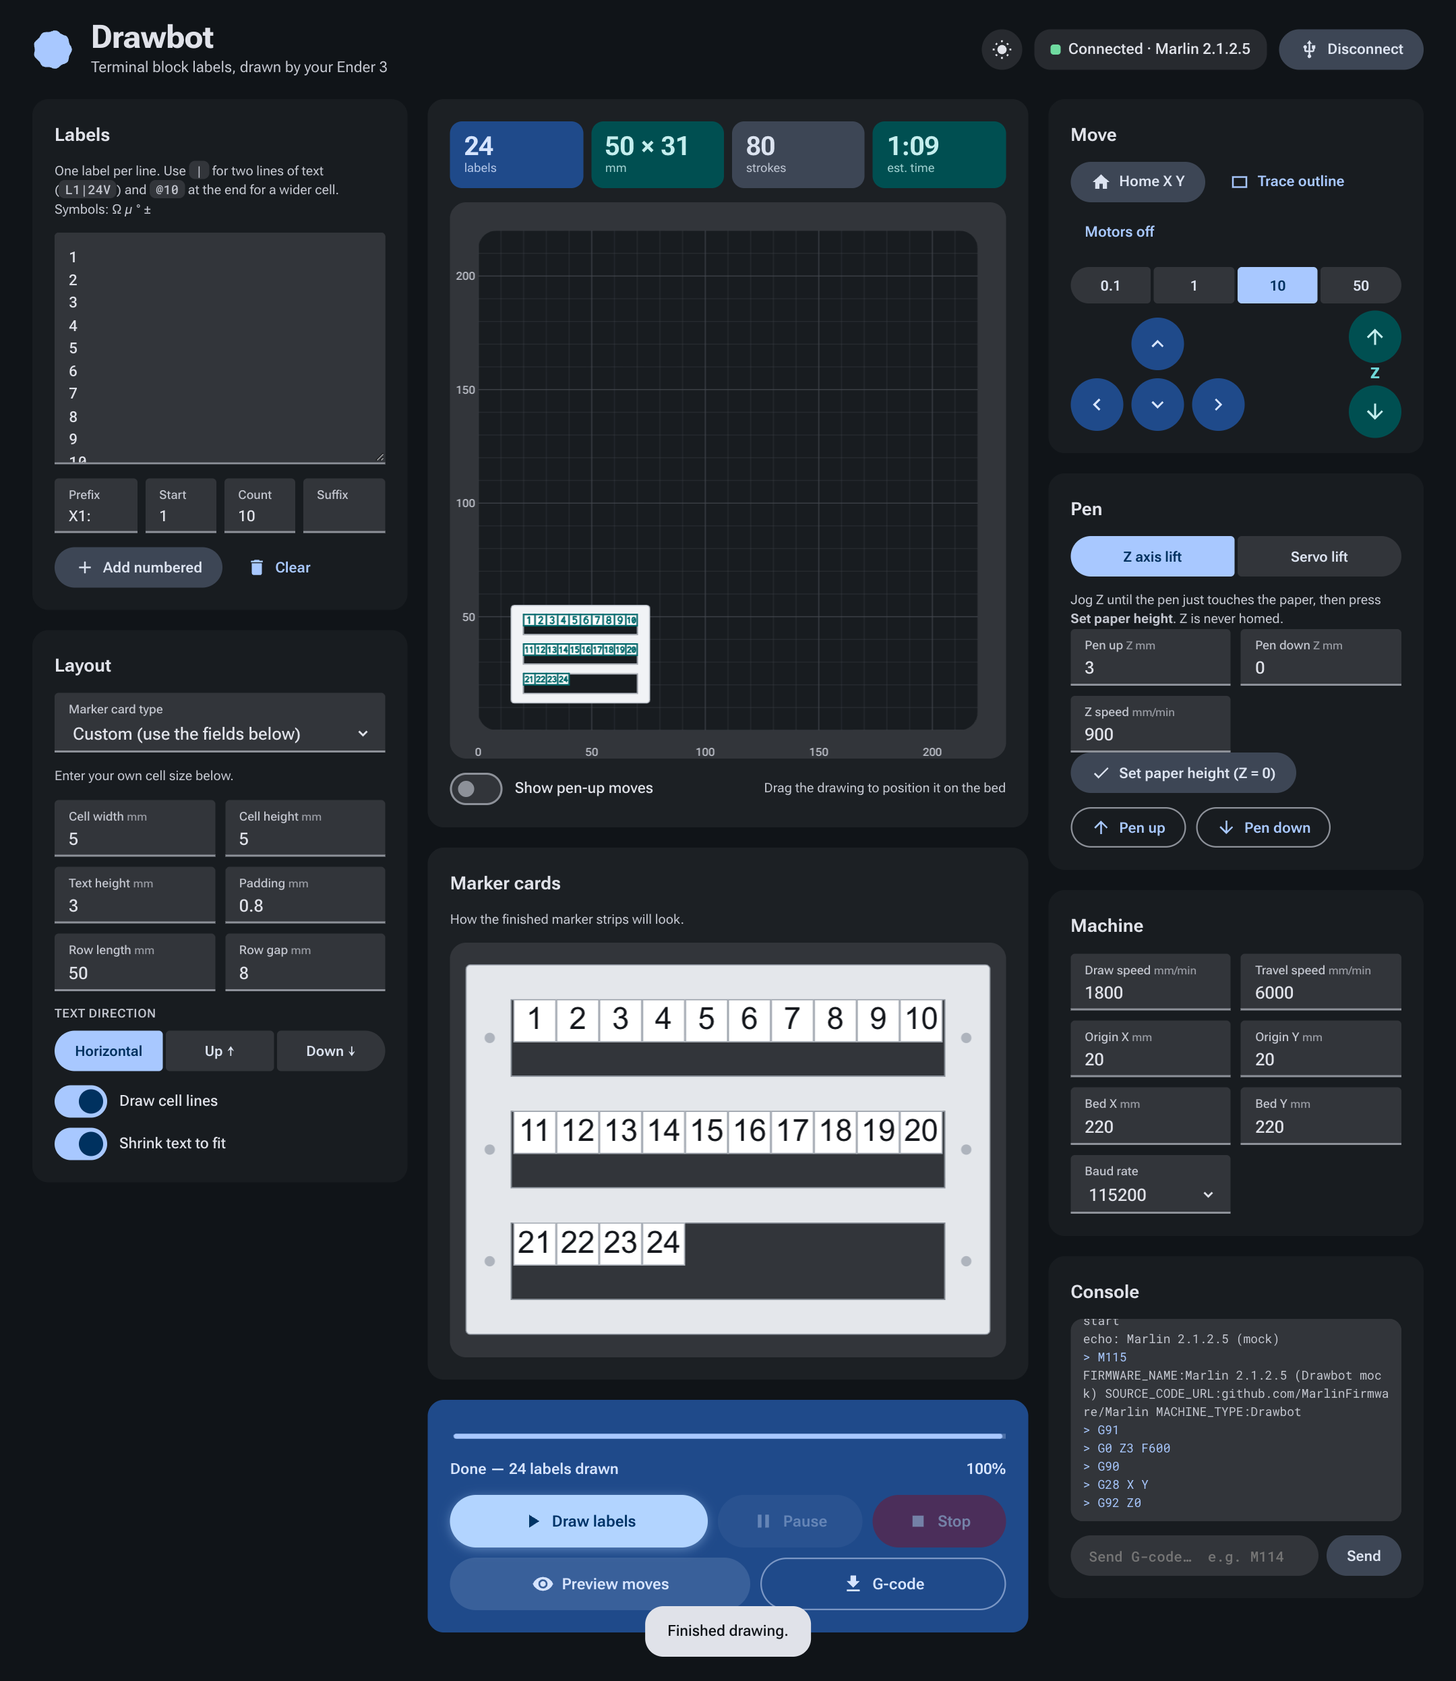
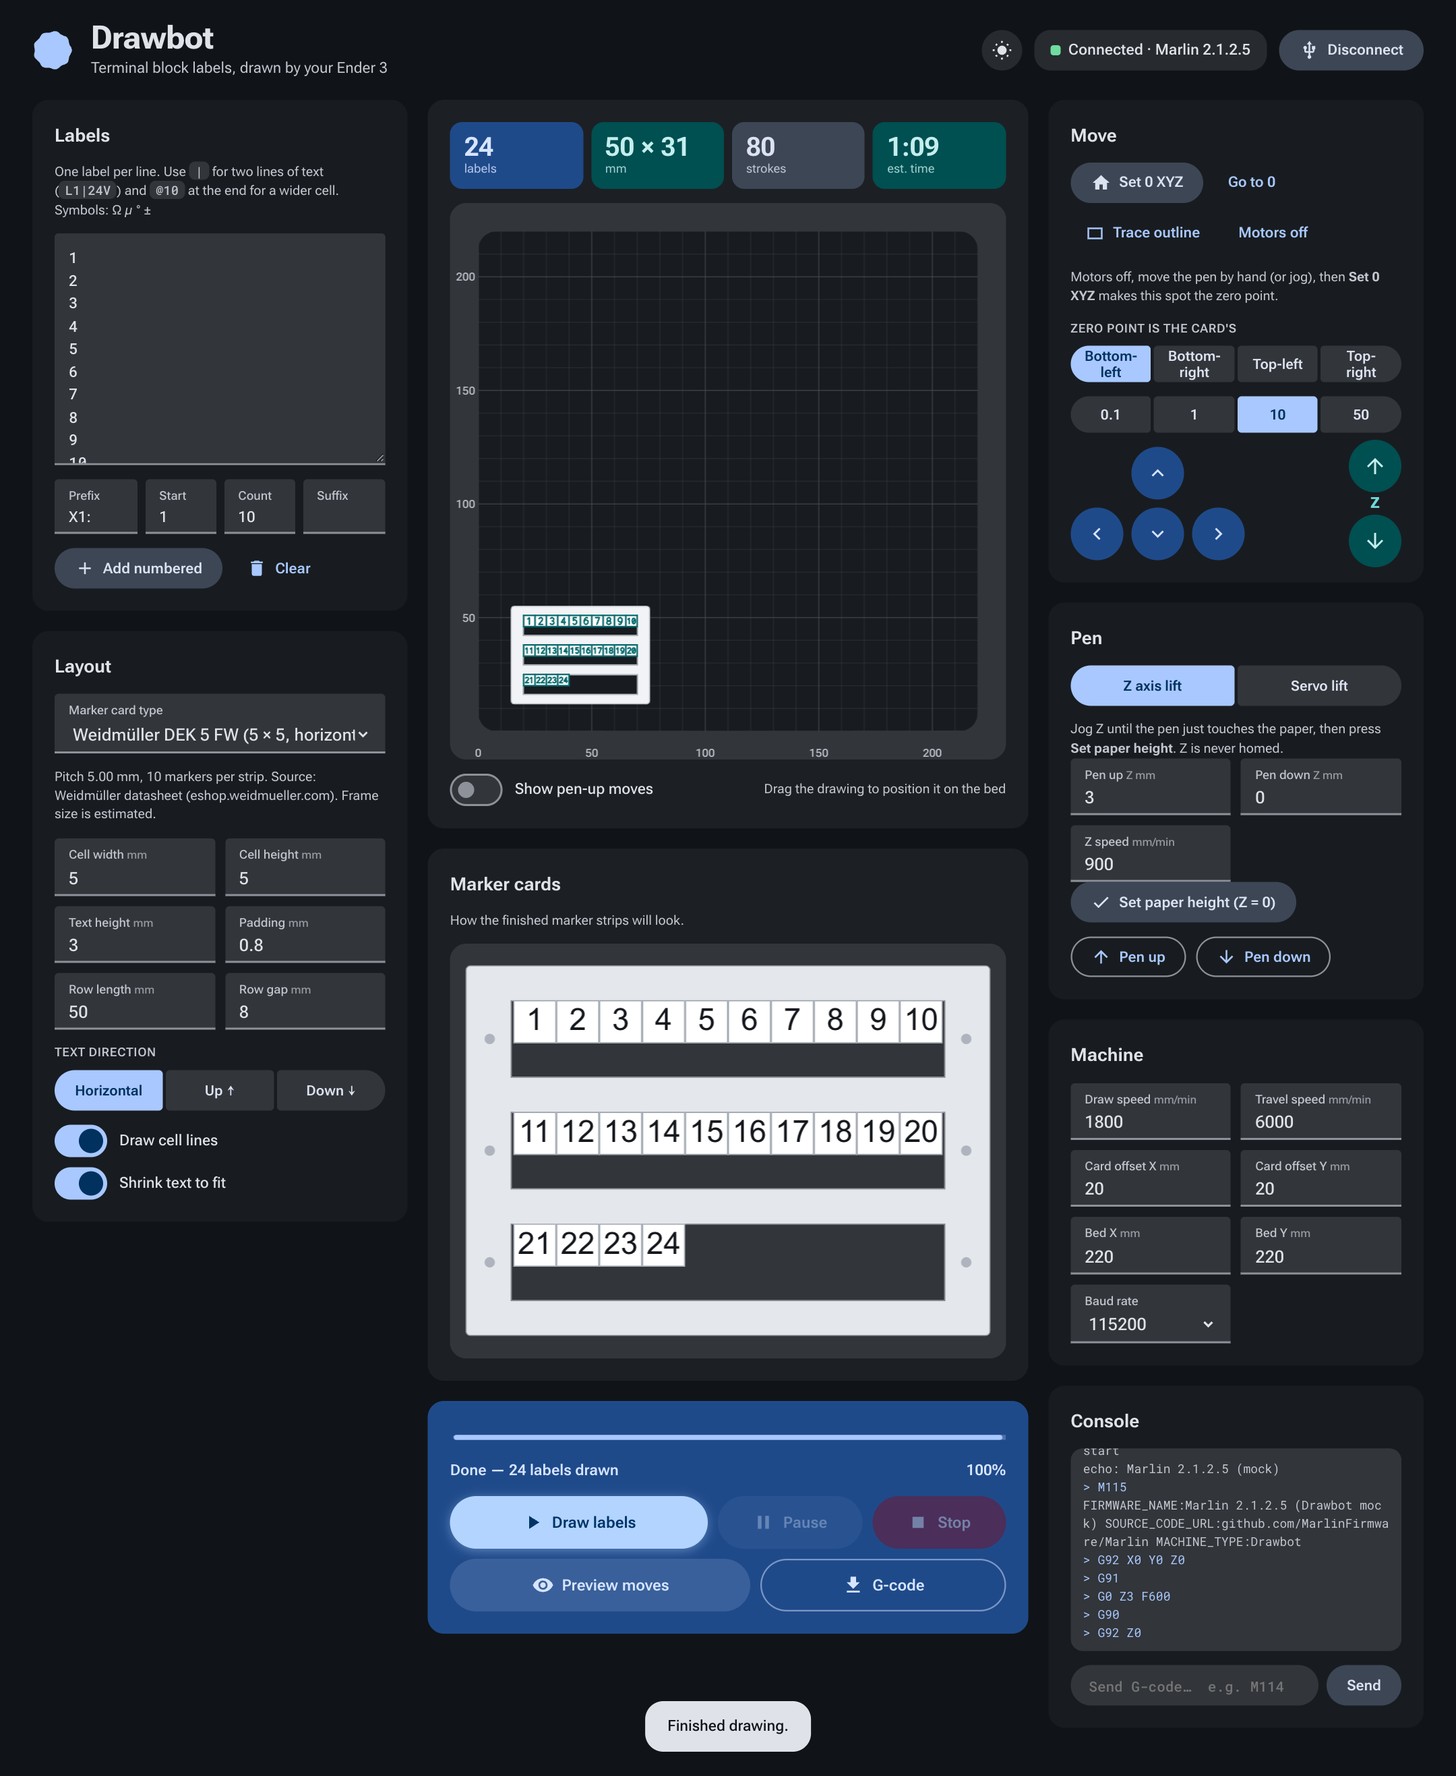
Replace Home X Y with Set 0 XYZ (G92), add Go to 0 and zero-point corner picker; park at zero

diff --git a/tests/e2e.js b/tests/e2e.js
@@ -23,7 +23,7 @@ const sleep = ms => new Promise(r => setTimeout(r, ms));
 const DATASETS = [
   { id: 'numbered', title: 'Numbered marker strips, 5 mm cells',
     labels: Array.from({ length: 24 }, (_, i) => String(i + 1)).join('\n'),
-    num: { cellW: 5, cellH: 5, textH: 3, rowLen: 50, rowGap: 8 }, seg: { rotSeg: '0', modeSeg: 'z' } },
+    num: { textH: 3, rowGap: 8 }, seg: { rotSeg: '0', modeSeg: 'z' } },
   { id: 'symbols', title: 'Mixed symbols and two-line labels',
     labels: 'L1|24V\nL2|24V\n0V\nPE@8\n10kΩ\n4.7µF\n±5%\n85°C\nA-B/C\n(IN)+\n#7 &8', num: { cellW: 9, cellH: 14, textH: 3.5 }, seg: { rotSeg: '90', modeSeg: 'z' } },
   { id: 'horizontal', title: 'Horizontal text in wide cells',
@@ -102,7 +102,7 @@ async function runDataset(browser, ds, i) {
   await connect(page);
   check(G, 'connected and detected Marlin', /Marlin/.test(await text(page, '#statusText')), `("${await text(page, '#statusText')}")`);
   if (i === 0) await shot(page, '02-connected');
-  await page.click('#btnHome');
+  await page.click('#btnZero');
   if (ds.seg.modeSeg === 'z') await page.click('#btnSetZ');
   await page.waitForFunction(() => window.DBApp.printer.inflight.length === 0 && window.DBApp.printer.queue.length === 0);
   const base = await page.evaluate(() => ({ cmds: window.__mock.commands, downs: window.__mock.penDowns }));
@@ -124,7 +124,7 @@ async function runDataset(browser, ds, i) {
   check(G, 'one pen-down per stroke', m.downs - base.downs === expect.strokes, `(${m.downs - base.downs}/${expect.strokes})`);
   const err = Math.max(Math.abs(bb.minx - (expect.minx + s.ox)), Math.abs(bb.maxx - (expect.maxx + s.ox)), Math.abs(bb.miny - (expect.miny + s.oy)), Math.abs(bb.maxy - (expect.maxy + s.oy)));
   check(G, 'drawn bounding box lands at the origin offset', err < 0.05, `(X ${bb.minx.toFixed(1)}–${bb.maxx.toFixed(1)}, Y ${bb.miny.toFixed(1)}–${bb.maxy.toFixed(1)} mm; max error ${err.toFixed(3)} mm)`);
-  check(G, 'pen lifted and parked at the end', !m.penDown && m.pos.x === 0 && m.pos.y === s.bedH, `(pos ${m.pos.x},${m.pos.y}, pen ${m.penDown ? 'DOWN' : 'up'})`);
+  check(G, 'pen lifted and parked at the zero point', !m.penDown && m.pos.x === 0 && m.pos.y === 0, `(pos ${m.pos.x},${m.pos.y}, pen ${m.penDown ? 'DOWN' : 'up'})`);
   check(G, 'no JS errors in the page', page.errors.length === 0, page.errors.join('; '));
   await renderExecuted(page, path.join(SHOTS, `run-${ds.id}.png`), ds.title);
   if (ds.id === 'numbered') await shot(page, '04-finished');
@@ -150,7 +150,7 @@ async function runDataset(browser, ds, i) {
   console.log('\n== Pause and resume');
   let G = 'Pause / resume';
   page = await setup(browser, { query: '?mock&delay=8', ds: DATASETS[0] });
-  await connect(page); await page.click('#btnHome'); await page.click('#btnSetZ');
+  await connect(page); await page.click('#btnZero'); await page.click('#btnSetZ');
   await page.waitForFunction(() => window.DBApp.printer.inflight.length === 0);
   const exp = await page.evaluate(() => window.DBApp.state.design.strokes.reduce((a, s) => a + s.slice(1).reduce((q, p, k) => q + Math.hypot(p[0] - s[k][0], p[1] - s[k][1]), 0), 0));
   await page.click('#btnStart'); await waitPct(page, 35); await page.click('#btnPause');
@@ -169,7 +169,7 @@ async function runDataset(browser, ds, i) {
   console.log('\n== Stop');
   G = 'Stop';
   page = await setup(browser, { query: '?mock&delay=8', ds: DATASETS[0] });
-  await connect(page); await page.click('#btnHome'); await page.click('#btnSetZ');
+  await connect(page); await page.click('#btnZero'); await page.click('#btnSetZ');
   await page.waitForFunction(() => window.DBApp.printer.inflight.length === 0);
   await page.click('#btnStart'); await waitPct(page, 25); await page.click('#btnStop');
   await page.waitForFunction(() => document.getElementById('progText').textContent === 'Ready', { timeout: 10000 });
@@ -187,7 +187,7 @@ async function runDataset(browser, ds, i) {
   console.log('\n== Manual controls');
   G = 'Manual controls';
   page = await setup(browser);
-  await connect(page); await page.click('#btnHome');
+  await connect(page); await page.click('#btnZero');
   await page.click('[data-jog="X"][data-dir="1"]'); await page.click('[data-jog="Y"][data-dir="1"]'); await page.click('[data-jog="Y"][data-dir="1"]');
   await page.click('#stepSeg button[data-v="1"]'); await page.click('[data-jog="X"][data-dir="-1"]');
   await page.waitForFunction(() => window.DBApp.printer.inflight.length === 0 && !window.DBApp.printer.queue.length);
@@ -217,7 +217,7 @@ async function runDataset(browser, ds, i) {
   const before = await page.evaluate(() => window.__mock.commands);
   await page.click('#btnStart'); await page.waitForSelector('dialog[open]');
   const dtxt = await text(page, '#dlgBody');
-  check(G, 'warns about off-bed drawing, unhomed axes and unset Z', /past the bed/.test(dtxt) && /homed/.test(dtxt) && /Z = 0/.test(dtxt));
+  check(G, 'warns about off-bed drawing and unset zero', /past the bed/.test(dtxt) && /Zero/.test(dtxt) && /Z = 0/.test(dtxt));
   await shot(page, '07-safety-dialog');
   await page.click('#dlgNo'); await sleep(300);
   check(G, 'Cancel sends nothing', (await page.evaluate(() => window.__mock.commands)) === before);
@@ -226,6 +226,18 @@ async function runDataset(browser, ds, i) {
 
   // 6. Dark theme + mobile
   page = await setup(browser, { dark: false, ds: DATASETS[1] }); await shot(page, '09-light-theme'); await page.close();
+  // Zero point + anchor corner
+  page = await setup(browser, { ds: { labels: '1\n2\n3', num: { cellW: 5, cellH: 5, ox: 10, oy: 10 }, seg: { rotSeg: '0' } } });
+  await connect(page);
+  await page.click('#btnZero'); await page.waitForFunction(() => window.DBApp.printer.inflight.length === 0 && !window.DBApp.printer.queue.length);
+  check('Zero point', 'Set 0 XYZ sends G92 and is not G28', await page.evaluate(() => window.__mock.log.some(l => l === 'G92 X0 Y0 Z0') && !window.__mock.log.some(l => l.startsWith('G28'))));
+  const gcBL = await page.evaluate(() => window.DBApp.state.gc.lines.filter(l => /^G1 X/.test(l)).slice(0, 1)[0]);
+  await page.click('#anchorSeg button[data-v="tr"]');
+  const gcTR = await page.evaluate(() => window.DBApp.state.gc.lines.filter(l => /^G1 X/.test(l)).slice(0, 1)[0]);
+  const negs = await page.evaluate(() => window.DBApp.state.gc.lines.some(l => /X-\d/.test(l) || /Y-\d/.test(l)));
+  check('Zero point', 'top-right anchor shifts the drawing so that corner sits at the offset', gcBL !== gcTR && negs, `${gcBL} -> ${gcTR}`);
+  await page.close();
+
   // Card type presets
   page = await setup(browser);
   await page.select('#cardType', 'zb5'); await sleep(200);

diff --git a/web/app.js b/web/app.js
@@ -10,7 +10,7 @@
   const NUM_IDS = ['cellW', 'cellH', 'textH', 'pad', 'rowLen', 'rowGap', 'zUp', 'zDown', 'zFeed', 'svUp', 'svDown', 'svDelay',
                    'drawFeed', 'travelFeed', 'ox', 'oy', 'bedW', 'bedH'];
   const CHECK_IDS = ['borders', 'shrink', 'showTravel'];
-  const SEGS = { rotSeg: '90', modeSeg: 'z', stepSeg: '10' };
+  const SEGS = { rotSeg: '90', modeSeg: 'z', stepSeg: '10', anchorSeg: 'bl' };
   const state = { design: null, gc: null, job: null, homed: false, zSet: false, doneStrokes: 0 };
 
   const num = (id, d) => { const v = parseFloat($(id).value); return Number.isFinite(v) ? v : d; };
@@ -23,7 +23,10 @@
       zUp: num('zUp', 3), zDown: num('zDown', 0), zFeed: Math.max(60, num('zFeed', 900)),
       svUp: num('svUp', 90), svDown: num('svDown', 40), svDelay: num('svDelay', 200),
       drawFeed: Math.max(60, num('drawFeed', 1800)), travelFeed: Math.max(60, num('travelFeed', 6000)),
-      ox: num('ox', 20), oy: num('oy', 20), bedW, bedH, parkX: 0, parkY: bedH,
+      // card offset from the zero point; the chosen card corner sits at (ox, oy) from zero
+      ox: num('ox', 20) - (/r/.test(segVal('anchorSeg')) && state.design ? state.design.width : 0),
+      oy: num('oy', 20) - (/t/.test(segVal('anchorSeg')) && state.design ? state.design.height : 0),
+      bedW, bedH, parkX: 0, parkY: 0,
     };
   }
   function layoutOpts() {
@@ -60,7 +63,7 @@
     const b = e.target.closest('button'); if (!b) return;
     setSeg(id, b.dataset.v);
     if (id === 'modeSeg') syncMode();
-    if (id === 'rotSeg') relayout(); else regen();
+    if (id === 'rotSeg') relayout(); else regen();   // anchorSeg / stepSeg / modeSeg
     save();
   }));
   function syncMode() {
@@ -415,7 +418,8 @@
   const penUpCmds = () => GC.penUp(settings());
   const liftCmds = () => segVal('modeSeg') === 'servo' ? penUpCmds() : ['G91', 'G0 Z3 F600', 'G90'];
 
-  $('btnHome').onclick = () => { if (!need()) return; send([...liftCmds(), 'G28 X Y']); state.homed = true; };
+  $('btnZero').onclick = () => { if (!need()) return; send(['G92 X0 Y0 Z0', ...liftCmds()]); state.homed = true; state.zSet = true; toast('This position is now 0 X Y Z.'); };
+  $('btnGoZero').onclick = () => { if (!need()) return; send([...liftCmds(), 'G90', `G0 X0 Y0 F${settings().travelFeed}`]); };
   $('btnOff').onclick = () => { if (!need()) return; send(['M84']); state.homed = false; };
   $('btnSetZ').onclick = () => { if (!need()) return; send(['G92 Z0']); state.zSet = true; toast('Z = 0 is now the paper surface.'); };
   $('btnPenUp').onclick = () => { if (!need()) return; send(['G90', ...penUpCmds()]); };
@@ -457,7 +461,7 @@
     if (!state.design.strokes.length) { toast('Nothing to draw — add some labels.'); return; }
     const warn = [];
     if (state.outOfBed) warn.push('• The drawing extends past the bed.');
-    if (!state.homed) warn.push('• X/Y have not been homed this session.');
+    if (!state.homed) warn.push('• Zero (Set 0 XYZ) has not been set this session.');
     if (settings().penMode === 'z' && !state.zSet) warn.push('• Paper height (Z = 0) has not been set.');
     if (warn.length && !(await confirmDlg('Check before drawing', warn.join('\n') + '\n\nThe pen may crash or draw in the wrong place.', 'Draw anyway'))) return;
     const gc = state.gc;

diff --git a/web/index.html b/web/index.html
@@ -134,9 +134,15 @@
     <article class="card">
       <h2>Move</h2>
       <div class="row">
-        <button class="btn tonal" id="btnHome"><svg><use href="#i-home"/></svg><span>Home X Y</span></button>
+        <button class="btn tonal" id="btnZero"><svg><use href="#i-home"/></svg><span>Set 0 XYZ</span></button>
+        <button class="btn text" id="btnGoZero"><span>Go to 0</span></button>
         <button class="btn text" id="btnBounds"><svg><use href="#i-box"/></svg><span>Trace outline</span></button>
         <button class="btn text" id="btnOff"><span>Motors off</span></button>
+      </div>
+      <p class="hint">Motors off, move the pen by hand (or jog), then <b>Set 0 XYZ</b> makes this spot the zero point.</p>
+      <div class="label-s">Zero point is the card's</div>
+      <div class="seg small" id="anchorSeg" role="radiogroup">
+        <button type="button" data-v="bl" class="on">Bottom-left</button><button type="button" data-v="br">Bottom-right</button><button type="button" data-v="tl">Top-left</button><button type="button" data-v="tr">Top-right</button>
       </div>
       <div class="seg small" id="stepSeg">
         <button type="button" data-v="0.1">0.1</button><button type="button" data-v="1">1</button><button type="button" data-v="10" class="on">10</button><button type="button" data-v="50">50</button>
@@ -188,8 +194,8 @@
       <div class="fields">
         <label class="field"><span>Draw speed <small>mm/min</small></span><input id="drawFeed" type="number" step="100" value="1800"></label>
         <label class="field"><span>Travel speed <small>mm/min</small></span><input id="travelFeed" type="number" step="500" value="6000"></label>
-        <label class="field"><span>Origin X <small>mm</small></span><input id="ox" type="number" step="1" value="20"></label>
-        <label class="field"><span>Origin Y <small>mm</small></span><input id="oy" type="number" step="1" value="20"></label>
+        <label class="field"><span>Card offset X <small>mm</small></span><input id="ox" type="number" step="1" value="20"></label>
+        <label class="field"><span>Card offset Y <small>mm</small></span><input id="oy" type="number" step="1" value="20"></label>
         <label class="field"><span>Bed X <small>mm</small></span><input id="bedW" type="number" value="220"></label>
         <label class="field"><span>Bed Y <small>mm</small></span><input id="bedH" type="number" value="220"></label>
         <label class="field"><span>Baud rate</span>

diff --git a/web/mock-serial.js b/web/mock-serial.js
@@ -32,7 +32,7 @@
     } else if (cmd === 'G28') { if (w.length === 1 || w.includes('X')) m.pos.x = 0; if (w.length === 1 || w.includes('Y')) m.pos.y = 0; }
     else if (cmd === 'G90') m.rel = false;
     else if (cmd === 'G91') m.rel = true;
-    else if (cmd === 'G92') { const z = val('Z'); if (z !== undefined) { m.pos.z = z; setPen(z <= 0.01); } }
+    else if (cmd === 'G92') { const x = val('X'), y = val('Y'), z = val('Z'); if (x !== undefined) m.pos.x = x; if (y !== undefined) m.pos.y = y; if (z !== undefined) { m.pos.z = z; setPen(z <= 0.01); } }
     else if (cmd === 'M280') { m.servoAngle = val('S'); setPen(m.servoAngle <= 60); }
     else if (cmd === 'M410') { queue.length = 0; m.occupancy = 0; m.stopped++; }
     else if (cmd === 'M115') { reply('FIRMWARE_NAME:Marlin 2.1.2.5 (Drawbot mock) SOURCE_CODE_URL:github.com/MarlinFirmware/Marlin MACHINE_TYPE:Drawbot'); }

diff --git a/docs/TEST_RESULTS.md b/docs/TEST_RESULTS.md
@@ -2,7 +2,7 @@
 
 Generated by `tests/e2e.js` (headless Chrome → real UI → simulated Marlin, `?mock` demo mode).
 
-**72/72 checks passed.**
+**74/74 checks passed.**
 
 ## UI
 
@@ -24,7 +24,7 @@ Generated by `tests/e2e.js` (headless Chrome → real UI → simulated Marlin, `
 | ✅ | ink length matches design | (583.6 mm drawn vs 583.5 mm designed) |
 | ✅ | one pen-down per stroke | (80/80) |
 | ✅ | drawn bounding box lands at the origin offset | (X 20.0–70.0, Y 20.0–51.0 mm; max error 0.000 mm) |
-| ✅ | pen lifted and parked at the end | (pos 0,220, pen up) |
+| ✅ | pen lifted and parked at the zero point | (pos 0,0, pen up) |
 | ✅ | no JS errors in the page |  |
 
 ## Mixed symbols and two-line labels
@@ -36,12 +36,12 @@ Generated by `tests/e2e.js` (headless Chrome → real UI → simulated Marlin, `
 | ✅ | layout produced every label | (11/11 labels, 86 strokes, 709 mm of ink) |
 | ✅ | design fits on the bed | (45×58 mm at 20,20) |
 | ✅ | connected and detected Marlin | ("Connected · Marlin 2.1.2.5") |
-| ✅ | every G-code line was acknowledged | (784/784 commands in 0.1s) |
+| ✅ | every G-code line was acknowledged | (784/784 commands in 0.2s) |
 | ✅ | never overflowed Marlin's 128-byte RX buffer | (peak 74 bytes, 0 overflows) |
 | ✅ | ink length matches design | (709.3 mm drawn vs 709.4 mm designed) |
 | ✅ | one pen-down per stroke | (86/86) |
 | ✅ | drawn bounding box lands at the origin offset | (X 20.0–65.0, Y 20.0–78.0 mm; max error 0.000 mm) |
-| ✅ | pen lifted and parked at the end | (pos 0,220, pen up) |
+| ✅ | pen lifted and parked at the zero point | (pos 0,0, pen up) |
 | ✅ | no JS errors in the page |  |
 
 ## Horizontal text in wide cells
@@ -58,7 +58,7 @@ Generated by `tests/e2e.js` (headless Chrome → real UI → simulated Marlin, `
 | ✅ | ink length matches design | (553.8 mm drawn vs 553.8 mm designed) |
 | ✅ | one pen-down per stroke | (52/52) |
 | ✅ | drawn bounding box lands at the origin offset | (X 20.0–116.0, Y 20.0–46.0 mm; max error 0.000 mm) |
-| ✅ | pen lifted and parked at the end | (pos 0,220, pen up) |
+| ✅ | pen lifted and parked at the zero point | (pos 0,0, pen up) |
 | ✅ | no JS errors in the page |  |
 
 ## Servo pen lift, 40 labels in rows
@@ -70,12 +70,12 @@ Generated by `tests/e2e.js` (headless Chrome → real UI → simulated Marlin, `
 | ✅ | layout produced every label | (40/40 labels, 133 strokes, 1294 mm of ink) |
 | ✅ | design fits on the bed | (100×28 mm at 20,20) |
 | ✅ | connected and detected Marlin | ("Connected · Marlin 2.1.2.5") |
-| ✅ | every G-code line was acknowledged | (2110/2110 commands in 0.2s) |
+| ✅ | every G-code line was acknowledged | (2110/2110 commands in 0.3s) |
 | ✅ | never overflowed Marlin's 128-byte RX buffer | (peak 78 bytes, 0 overflows) |
 | ✅ | ink length matches design | (1293.7 mm drawn vs 1293.6 mm designed) |
 | ✅ | one pen-down per stroke | (133/133) |
 | ✅ | drawn bounding box lands at the origin offset | (X 20.0–120.0, Y 20.0–48.0 mm; max error 0.000 mm) |
-| ✅ | pen lifted and parked at the end | (pos 0,220, pen up) |
+| ✅ | pen lifted and parked at the zero point | (pos 0,0, pen up) |
 | ✅ | no JS errors in the page |  |
 
 ## Edge case: one label, no cell lines
@@ -92,14 +92,14 @@ Generated by `tests/e2e.js` (headless Chrome → real UI → simulated Marlin, `
 | ✅ | ink length matches design | (8.5 mm drawn vs 8.5 mm designed) |
 | ✅ | one pen-down per stroke | (2/2) |
 | ✅ | drawn bounding box lands at the origin offset | (X 20.8–24.2, Y 21.4–23.6 mm; max error 0.003 mm) |
-| ✅ | pen lifted and parked at the end | (pos 0,220, pen up) |
+| ✅ | pen lifted and parked at the zero point | (pos 0,0, pen up) |
 | ✅ | no JS errors in the page |  |
 
 ## Pause / resume
 
 | | Check | Detail |
 |---|---|---|
-| ✅ | no commands run while paused | (274 → 274) |
+| ✅ | no commands run while paused | (273 → 273) |
 | ✅ | UI reports Done only after the last command executed |  |
 | ✅ | job completes after resume with correct ink | (583.6 vs 583.5 mm) |
 
@@ -128,8 +128,15 @@ Generated by `tests/e2e.js` (headless Chrome → real UI → simulated Marlin, `
 
 | | Check | Detail |
 |---|---|---|
-| ✅ | warns about off-bed drawing, unhomed axes and unset Z |  |
+| ✅ | warns about off-bed drawing and unset zero |  |
 | ✅ | Cancel sends nothing |  |
+
+## Zero point
+
+| | Check | Detail |
+|---|---|---|
+| ✅ | Set 0 XYZ sends G92 and is not G28 |  |
+| ✅ | top-right anchor shifts the drawing so that corner sits at the offset | G1 X25 Y10 F1800 -> G1 X10 Y5 F1800 |
 
 ## Card types
 

diff --git a/README.md b/README.md
@@ -55,7 +55,7 @@ On 4.2.x boards, if compile complains about a missing sensor with `TEMP_SENSOR_0
   Jog Z down until the tip touches the paper → **Set paper height** (`G92 Z0`). Pen-up/down moves Z by the values in the Pen card.
   Slower per stroke, so servo is better for lots of labels.
 - **Servo lift:** hobby servo signal on the BLTouch header (on the 1.1.x board that is pin 27), 5 V and GND. Tune up/down angles and press the Pen up/down buttons.
-- Tape the label stock down. **Home X Y**, **Trace outline** to check placement (or drag the drawing in the preview), then **Draw labels**.
+- Tape the label stock down. move the pen to the card's corner by hand (**Motors off**) or with the jog pad, pick which card corner that is, press **Set 0 XYZ**, then **Trace outline** to check placement (or drag the drawing in the preview), then **Draw labels**.
 
 ## Label syntax
 One label per line · `L1|24V` = two text lines · `PE@8` = 8 mm wide cell · **Add numbered** generates `X1:1…`.
